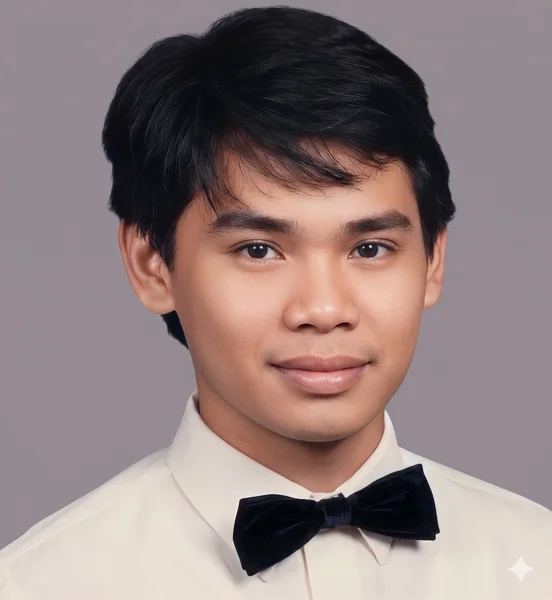
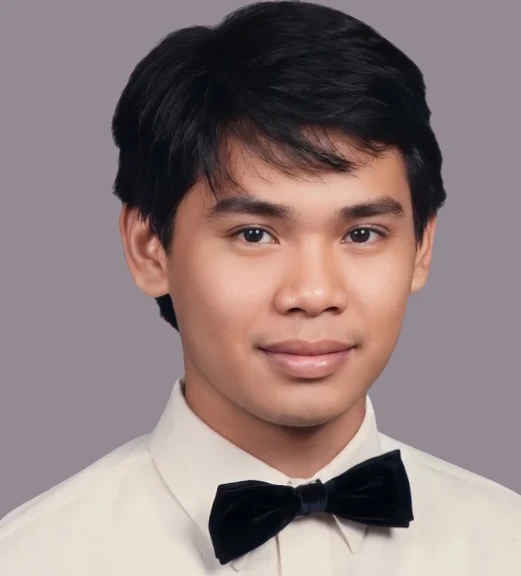
Updated names

diff --git a/src/app/models.ts b/src/app/models.ts
@@ -894,7 +894,7 @@ export const sections: SectionData[] = [
       { name: 'Rogelio B. Tapang', image: 'students/rogelio-tapang.webp' },
       { name: 'Eric B. Tee', image: 'students/eric-tee.webp' },
       { name: 'Jojo M. Uy', image: 'students/jojo-uy.webp' },
-      { name: 'Joel Velasco', image: 'students/joel-velasco.webp' },
+      { name: 'Joel P. Velasco', image: 'students/joel-velasco.webp' },
       { name: 'Romeo T. Vendivil', image: 'students/romeo-vendivil.webp' },
       { name: 'Von Ferdinand O. Villagarcia', image: 'students/von-villagarcia.webp' }
     ],
@@ -990,7 +990,7 @@ export const sections: SectionData[] = [
       { name: 'Rowelito R. Angeles', image: 'students/rowelito-angeles.webp' },
       { name: 'Justiniano F. Antonio Jr.', image: 'students/justiniano-antonio.webp' },
       { name: 'Angelico Arlantico', image: 'students/angelico-arlantico.webp' },
-      { name: 'Narciso P. Atienza Jr.', image: 'students/narciso-atienza.webp' },
+      { name: 'Narciso F. Atienza Jr.', image: 'students/narciso-atienza.webp' },
       { name: 'Allan G. Avellaneda', image: 'students/allan-avellaneda.webp' },
       { name: 'Hector Aniceto S. Bagalay', image: 'students/hector-bagalay.webp' },
       { name: 'Louiesito C. Bangco', image: 'students/louiesito-bangco.webp' },
@@ -1018,7 +1018,7 @@ export const sections: SectionData[] = [
       { name: 'Fernando Lino V. Natividad', image: 'students/fernando-natividad.webp' },
       { name: 'Elme-Al O. Navera', image: 'students/elme-navera.webp' },
       { name: 'Oliver H. Olila', image: 'students/oliver-olila.webp' },
-      { name: 'Roberto A. Ordonez', image: 'students/roberto-ordonez.webp' },
+      { name: 'Roberto A. Ordoñez', image: 'students/roberto-ordonez.webp' },
       { name: 'Remar B. Padlan', image: 'students/remar-padlan.webp' },
       { name: 'Fernan Harold R. Paylago', image: 'students/fernan-paylago.webp' },
       { name: 'Garry Luis M. Piamonte', image: 'students/garry-piamonte.webp' },
@@ -1063,7 +1063,7 @@ export const sections: SectionData[] = [
       { name: 'Michelle C. Basiloy', image: 'students/michelle-basiloy.webp' },
       { name: 'Anna Lisa M. Belen', image: 'students/anna-belen.webp' },
       { name: 'Ma. Teresa S. Bulatao', image: 'students/teresa-bulatao.webp' },
-      { name: 'Jeremiah I. Castaneda', image: 'students/jeremiah-castaneda.webp' },
+      { name: 'Jeremiah I. Castañeda', image: 'students/jeremiah-castaneda.webp' },
       { name: 'Hazel B. Centeno', image: 'students/hazel-centeno.webp' },
       { name: 'Arlinda J. Cesa', image: 'students/arlinda-cesa.webp' },
       { name: 'Ma. Esperanza P. Dajoyag', image: 'students/esperanza-dajoyag.webp' },
@@ -1110,7 +1110,7 @@ export const sections: SectionData[] = [
       { name: 'Mary Rose G. Uy', image: 'students/mary-uy.webp' },
       { name: 'Marietta C. Vicencio', image: 'students/marietta-vicencio.webp' },
       { name: 'Mary Jane Villarica', image: 'students/mary-villarica.webp' },
-      { name: 'Marjorie U. Villacruz', image: 'students/marjorie-villacruz.webp' },
+      { name: 'Marjorie U. Villaruz', image: 'students/marjorie-villacruz.webp' },
       { name: 'Michelle Marie C. Vinzons', image: 'students/michelle-vinzons.webp' },
       { name: 'Ma. Isabel Loreto R. Zuela', image: 'students/isabel-zuela.webp' }
     ],
@@ -1246,7 +1246,7 @@ export const sections: SectionData[] = [
       { name: 'Sahlee A. Sabayday', image: 'students/sahlee-sabayday.webp' },
       { name: 'Olivia T. San Buenaventura', image: 'students/olivia-sanbuenaventura.webp' },
       { name: 'Consolacion C. Sebastian', image: 'students/consolacion-sebastian.webp' },
-      { name: 'Marie Melody D. Serina', image: 'students/marie-serina.webp' },
+      { name: 'Marie Melody D. Seriña', image: 'students/marie-serina.webp' },
       { name: 'Eden Songco', image: 'students/eden-songco.webp' },
       { name: 'Lucia Ester A. Susa', image: 'students/lucia-susa.webp' },
       { name: 'Ma. Liezl S. Tacazon', image: 'students/liezl-tacazon.webp' },
@@ -1267,7 +1267,7 @@ export const sections: SectionData[] = [
     officers: [
       { role: 'President', name: 'Edwin P. Santiago', shortName: 'Edwin Santiago' },
       { role: 'Vice-President', name: 'Bryan Carl G. Collado', shortName: 'Bryan Collado' },
-      { role: 'Secretary', name: 'Frederick Cayetano', shortName: 'Frederick Cayetano' },
+      { role: 'Secretary', name: 'Frederick Q. Cayetano', shortName: 'Frederick Cayetano' },
       { role: 'Treasurer', name: 'Manchi J. Melencio', shortName: 'Manchi Melencio' },
       { role: 'P.R.O.', name: 'Flerido N. Quiambao', shortName: 'Flerido Quiambao' },
       { role: 'Sgt. at Arms', name: 'Joseph Efigenio A. Dela Rosa', shortName: 'Joseph Dela Rosa' }
@@ -1281,28 +1281,28 @@ export const sections: SectionData[] = [
       { name: 'Carmelo A. Aviso', image: 'students/carmelo-aviso.webp' },
       { name: 'Jerrold A. Bano', image: 'students/jerrold-bano.webp' },
       { name: 'Edwin S. J. Baris', image: 'students/edwin-baris.webp' },
-      { name: 'Dan Vincent Barros', image: 'students/dan-barros.webp' },
-      { name: 'Anthony Bonsoi', image: 'students/anthony-bonsoi.webp' },
-      { name: 'Frederick Buhat', image: 'students/frederick-buhat.webp' },
+      { name: 'Dan Vincent L. Barros', image: 'students/dan-barros.webp' },
+      { name: 'Anthony A. Bonsol', image: 'students/anthony-bonsoi.webp' },
+      { name: 'Frederick D. Buhat', image: 'students/frederick-buhat.webp' },
       { name: 'Renato D. Burdeos', image: 'students/renato-burdeos.webp' },
-      { name: 'Rex V. Calupang', image: 'students/rex-calupang.webp' },
+      { name: 'Rex V. Calumpang', image: 'students/rex-calupang.webp' },
       { name: 'Erickson J. J. Capulong', image: 'students/erickson-capulong.webp' },
       { name: 'Joel M. De Castro', image: 'students/joel-decastro.webp' },
-      { name: 'Eric Michael C. Cayahan', image: 'students/eric-cayahan.webp' },
-      { name: 'Frederick Cayetano', image: 'students/frederick-cayetano.webp' },
+      { name: 'Eric Michael C. Cayanan', image: 'students/eric-cayahan.webp' },
+      { name: 'Frederick Q. Cayetano', image: 'students/frederick-cayetano.webp' },
       { name: 'Bryan Carl G. Collado', image: 'students/bryan-collado.webp' },
       { name: 'David C. Dacio', image: 'students/david-dacio.webp' },
       { name: 'Jon-Jon A. Dizon', image: 'students/jon-dizon.webp' },
       { name: 'Ranulfo O. Espera', image: 'students/ranulfo-espera.webp' },
       { name: 'Fernandy M. Fernandez', image: 'students/fernandy-fernandez.webp' },
       { name: 'Tristan J. Fernandez', image: 'students/tristan-fernandez.webp' },
-      { name: 'Wilson Joy Fernandez', image: 'students/wilson-fernandez.webp' },
+      { name: 'Wilson Joy G.Fernandez', image: 'students/wilson-fernandez.webp' },
       { name: 'Thomas S. Francisco', image: 'students/thomas-francisco.webp' },
-      { name: 'Roberto Hontiveros', image: 'students/roberto-hontiveros.webp' },
+      { name: 'Roberto O. Hontiveros', image: 'students/roberto-hontiveros.webp' },
       { name: 'Michael F. Lara', image: 'students/michael-lara.webp' },
       { name: 'Jonathan F. Layug', image: 'students/jonathan-layug.webp' },
       { name: 'Jason P. Legaspi', image: 'students/jason-legaspi.webp' },
-      { name: 'Felixberto M. Maneza Jr.', image: 'students/felixberto-maneza.webp' },
+      { name: 'Felixberto M. Maneja Jr.', image: 'students/felixberto-maneza.webp' },
       { name: 'Michael E. Matias', image: 'students/michael-matias.webp' },
       { name: 'Manchi J. Melencio', image: 'students/manchi-melencio.webp' },
       { name: 'Darwin C. Mendoza', image: 'students/darwin-mendoza.webp' },
@@ -1313,18 +1313,18 @@ export const sections: SectionData[] = [
       { name: 'Viktor R. Peñas', image: 'students/viktor-penas.webp' },
       { name: 'Flerido N. Quiambao', image: 'students/flerido-quiambao.webp' },
       { name: 'Joseph Efigenio A. Dela Rosa', image: 'students/joseph-delarosa.webp' },
-      { name: 'Dennis C. Sabile', image: 'students/dennis-sabile.webp' },
+      { name: 'Dennis Noel C. Sabile', image: 'students/dennis-sabile.webp' },
       { name: 'Ted Edward V. Sadio', image: 'students/ted-sadio.webp' },
       { name: 'Edwin P. Santiago', image: 'students/edwin-santiago.webp' },
       { name: 'Rommel I. Solitario', image: 'students/rommel-solitario.webp' },
-      { name: 'Leonardo L. Sto. Domingo', image: 'students/leonardo-stodomingo.webp' },
+      { name: 'Leonardo L. Sto. Domingo Jr.', image: 'students/leonardo-stodomingo.webp' },
       { name: 'Emmanuel V. Tallador', image: 'students/emmanuel-tallador.webp' },
       { name: 'Hector A. Tan', image: 'students/hector-tan.webp' },
-      { name: 'Florante Tolentino', image: 'students/florante-tolentino.webp' },
-      { name: 'Ronald Tonido', image: 'students/ronald-tonido.webp' },
+      { name: 'Florante G.Tolentino', image: 'students/florante-tolentino.webp' },
+      { name: 'Ronald L. Tonido', image: 'students/ronald-tonido.webp' },
       { name: 'Rolando J. De Torres', image: 'students/rolando-detorres.webp' },
       { name: 'Vern V. Veron', image: 'students/vern-veron.webp' },
-      { name: 'Joseph Viray', image: 'students/joseph-viray.webp' }
+      { name: 'Joseph S. Viray', image: 'students/joseph-viray.webp' }
     ],
     other: [
         { title: 'Pain in the neck', image: 'other/classroom.webp' },
